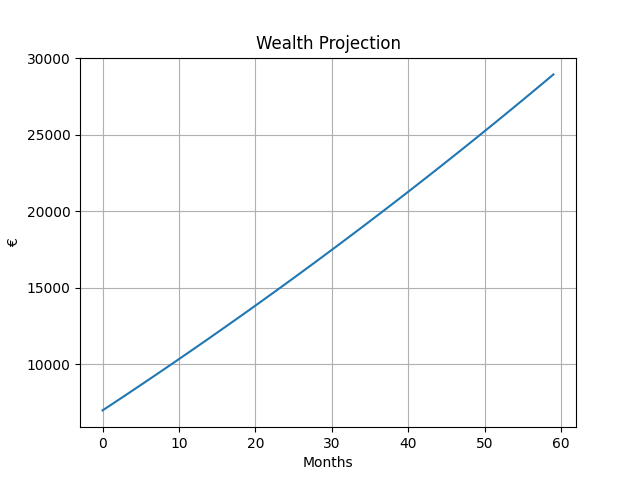
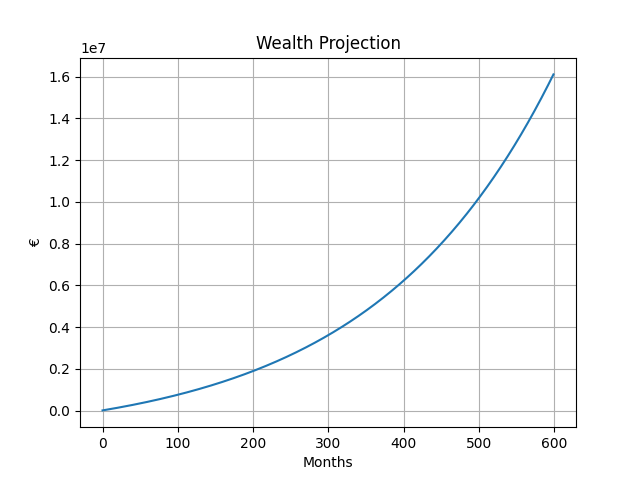
.

diff --git a/templates/base.html b/templates/base.html
@@ -33,17 +33,9 @@
           <a href="{{ url_for('documents') }}">Documents</a>
         {% endif %}
 
-        {% if endpoint_exists('add_expense') %}
-          <a href="{{ url_for('add_expense') }}">+ Expense</a>
-        {% endif %}
-
-        {% if endpoint_exists('add_income') %}
-          <a href="{{ url_for('add_income') }}">+ Income</a>
-        {% endif %}
-
-        {% if endpoint_exists('add_investment') %}
-          <a href="{{ url_for('add_investment') }}">+ Investment</a>
-        {% endif %}
+        <a href="{{ url_for('add_transaction', type='expense') }}">+ Expense</a>
+        <a href="{{ url_for('add_transaction', type='income') }}">+ Income</a>
+        <a href="{{ url_for('add_transaction', type='investment') }}">+ Investment</a>
       </nav>
   </header>
 

diff --git a/app_complete.py b/app_complete.py
@@ -62,6 +62,11 @@ from utils.interactive_plots import (
 
 app = Flask(__name__)
 
[email redacted]_processor
+def inject_endpoint_checker():
+    def endpoint_exists(endpoint):
+        return endpoint in app.view_functions
+    return dict(endpoint_exists=endpoint_exists)
 
 @app.route("/documents-background/<path:filename>")
 def documents_background(filename):
@@ -192,9 +197,20 @@ def add_transaction():
             "description": description,
         }
 
-        account = tx.get("account", "").lower()
+        account = tx.get("account", "").strip().lower()
 
-        if account == "credit":
+        credit_keywords = {
+            "credit",
+            "credit card",
+            "card credit",
+            "carta credito",
+            "carta di credito",
+            "visa",
+            "mastercard",
+        }
+        
+        if account in credit_keywords:
+            tx["account"] = "credit"
             due_date = next_credit_due()
             append_pending(tx, due_date)
         else:
@@ -574,4 +590,8 @@ def forecast():
     return render_template("forecast.html", result=result)
 
 if __name__ == "__main__":
-    app.run(debug=True)
+    app.run(
+        host="0.0.0.0",
+        port=5000,
+        debug=False
+    )